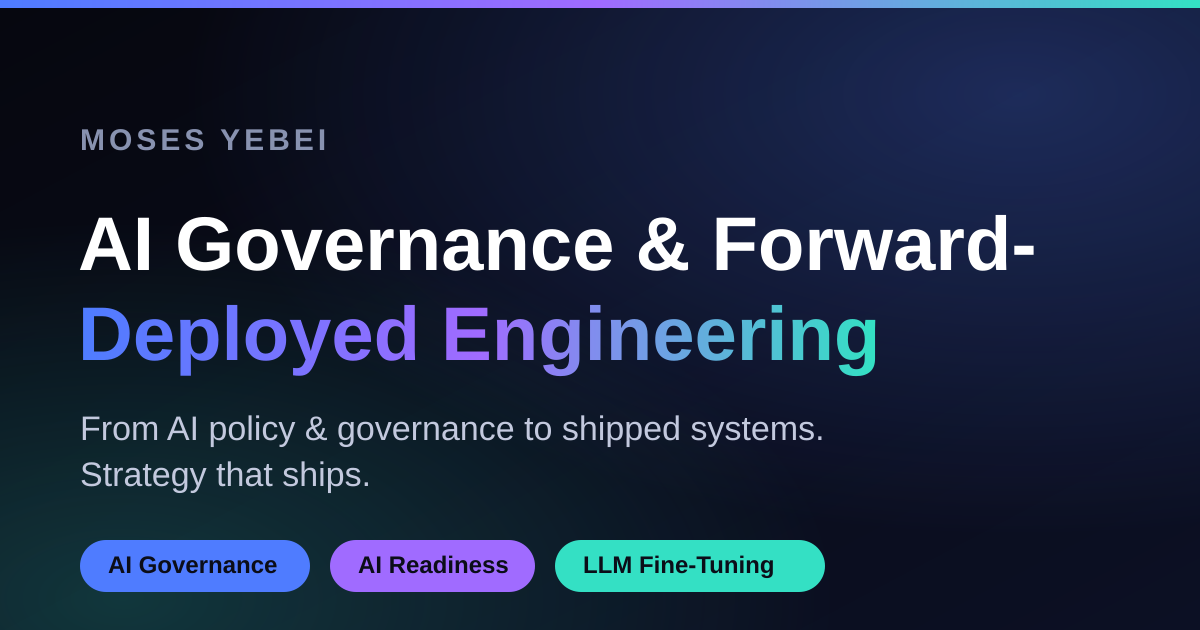
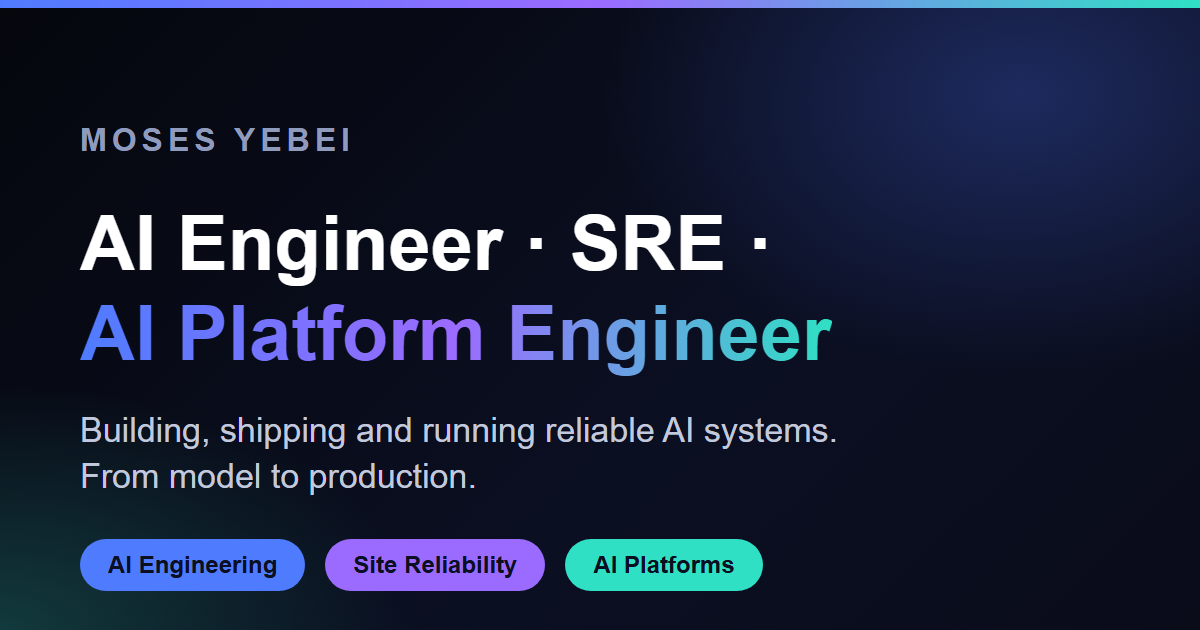
Reposition as AI engineer, SRE and AI platform engineer
Replace the forward-deployed framing in the link preview image, page
metadata and structured data, and rewrite the hero to say plainly what
Glossa is instead of the architecture-textbook line.

diff --git a/index.html b/index.html
@@ -12,22 +12,22 @@
 <head>
     <meta charset="UTF-8">
     <meta name="viewport" content="width=device-width, initial-scale=1.0">
-    <title>Moses Yebei | Forward-Deployed AI Engineer & AI Governance Consultant</title>
+    <title>Moses Yebei | AI Engineer, SRE &amp; AI Platform Engineer</title>
     <meta name="author" content="Moses Yebei">
-    <meta name="description" content="Forward-deployed AI engineer and AI governance consultant. I help organizations move from AI strategy to shipped systems - AI policy & governance, EU AI Act readiness, data governance, RAG & GraphRAG agents, and LLM fine-tuning.">
-    <meta name="keywords" content="forward-deployed AI engineer, AI governance consultant, EU AI Act compliance, AI readiness assessment, RAG pipeline consultant, GraphRAG, LangGraph agent developer, LLM fine-tuning consultant, data governance">
+    <meta name="description" content="AI engineer, SRE and AI platform engineer. I build, ship and run reliable AI systems - LLM agents, RAG &amp; GraphRAG, knowledge graphs, model fine-tuning, and the platforms and infrastructure they run on.">
+    <meta name="keywords" content="AI engineer, site reliability engineer, SRE, AI platform engineer, MLOps, AI governance consultant, EU AI Act compliance, AI readiness assessment, RAG pipeline consultant, GraphRAG, LangGraph agent developer, LLM fine-tuning consultant, data governance">
 
     <!-- Open Graph / Social -->
     <meta property="og:type" content="website">
     <meta property="og:url" content="https://moses-y.github.io/">
-    <meta property="og:title" content="Moses Yebei | Forward-Deployed AI Engineer & AI Governance Consultant">
-    <meta property="og:description" content="From AI policy & governance to forward-deployed delivery and model fine-tuning - one advisor across the full lifecycle. Strategy that ships.">
+    <meta property="og:title" content="Moses Yebei | AI Engineer, SRE &amp; AI Platform Engineer">
+    <meta property="og:description" content="Building, shipping and running reliable AI systems - from model to production.">
     <meta property="og:image" content="https://moses-y.github.io/og-image.png">
 
     <!-- Twitter Card -->
     <meta name="twitter:card" content="summary_large_image">
-    <meta name="twitter:title" content="Moses Yebei | Forward-Deployed AI Engineer & AI Governance Consultant">
-    <meta name="twitter:description" content="From AI policy & governance to forward-deployed delivery and model fine-tuning - one advisor across the full lifecycle. Strategy that ships.">
+    <meta name="twitter:title" content="Moses Yebei | AI Engineer, SRE &amp; AI Platform Engineer">
+    <meta name="twitter:description" content="Building, shipping and running reliable AI systems - from model to production.">
     <meta name="twitter:image" content="https://moses-y.github.io/og-image.png">
 
     <!-- Canonical -->
@@ -43,14 +43,14 @@
           "@id": "https://moses-y.github.io/#person",
           "name": "Moses Yebei",
           "url": "https://moses-y.github.io/",
-          "jobTitle": "Forward-Deployed AI Engineer & AI Governance Consultant",
-          "description": "Independent consultant across AI policy & governance, data governance, AI readiness, forward-deployed engineering, and ML training & fine-tuning.",
+          "jobTitle": "AI Engineer, SRE & AI Platform Engineer",
+          "description": "Independent consultant across AI policy & governance, data governance, AI readiness, AI platform engineering, and ML training & fine-tuning.",
           "knowsAbout": [
             "AI Governance",
             "AI Policy",
             "Data Governance",
             "AI Readiness",
-            "Forward-Deployed Engineering",
+            "AI Platform Engineering",
             "Machine Learning Fine-Tuning",
             "LLM Agents",
             "Knowledge Graphs",
@@ -67,13 +67,13 @@
           "name": "Moses Yebei - AI Advisory & Delivery",
           "url": "https://moses-y.github.io/",
           "founder": { "@id": "https://moses-y.github.io/#person" },
-          "description": "AI governance, readiness, and forward-deployed engineering - from strategy to shipped systems, including LLM agents, knowledge graphs, RAG, and model fine-tuning.",
+          "description": "AI governance, readiness, and AI platform engineering - from strategy to shipped systems, including LLM agents, knowledge graphs, RAG, and model fine-tuning.",
           "areaServed": "Worldwide",
           "serviceType": [
             "AI Governance Consulting",
             "Data Governance Consulting",
             "AI Readiness Assessment",
-            "Forward-Deployed Engineering",
+            "AI Platform Engineering",
             "LLM Fine-Tuning"
           ]
         }
@@ -188,20 +188,15 @@
                      unexplained. The count lives in the lead because that is
                      the sentence making a claim about scale. -->
                 <h1>
-                    Open source is the only <span class="gradient-text">architecture textbook</span>
-                    written by people who had to ship it.
+                    I build and run <span class="gradient-text">AI systems in production.</span>
                 </h1>
-                <p class="tagline">
-                    Built, not described - <span class="typing-text" id="typing-text"></span><span class="typing-cursor"></span>
-                </p>
                 <p class="bio">
-                    <strong>Glossa</strong> reads <span id="hero-repos">1,440</span> chapters of it
-                    and tells you how each one works. <span id="hero-scripts">56</span> scripts
-                    resolve a repository's module graph, dependency closure and hygiene surface;
-                    a model then writes the article from those facts and nothing else - prose, never
-                    a number, so every figure traces back to a check that ran.
-                    <span id="hero-forked">1,418</span> of them are forks: I built Glossa to learn
-                    from them, not to claim them. It runs every two hours.
+                    To learn how good software is put together, I built <strong>Glossa</strong>: a
+                    knowledge graph of <span id="hero-repos">1,440</span> open-source repositories.
+                    It maps how each one is structured, what it depends on and how healthy it is.
+                    Then a model writes a plain-English explanation of each repo from those checked
+                    facts only, so every number traces back to a real analysis. It refreshes every
+                    two hours.
                 </p>
                 <div class="hero-buttons">
                     <a href="/knowledge-graph.html" class="btn btn-primary">

diff --git a/assets/partials/index/00-head.html b/assets/partials/index/00-head.html
@@ -6,22 +6,22 @@
 <head>
     <meta charset="UTF-8">
     <meta name="viewport" content="width=device-width, initial-scale=1.0">
-    <title>Moses Yebei | Forward-Deployed AI Engineer & AI Governance Consultant</title>
+    <title>Moses Yebei | AI Engineer, SRE &amp; AI Platform Engineer</title>
     <meta name="author" content="Moses Yebei">
-    <meta name="description" content="Forward-deployed AI engineer and AI governance consultant. I help organizations move from AI strategy to shipped systems - AI policy & governance, EU AI Act readiness, data governance, RAG & GraphRAG agents, and LLM fine-tuning.">
-    <meta name="keywords" content="forward-deployed AI engineer, AI governance consultant, EU AI Act compliance, AI readiness assessment, RAG pipeline consultant, GraphRAG, LangGraph agent developer, LLM fine-tuning consultant, data governance">
+    <meta name="description" content="AI engineer, SRE and AI platform engineer. I build, ship and run reliable AI systems - LLM agents, RAG &amp; GraphRAG, knowledge graphs, model fine-tuning, and the platforms and infrastructure they run on.">
+    <meta name="keywords" content="AI engineer, site reliability engineer, SRE, AI platform engineer, MLOps, AI governance consultant, EU AI Act compliance, AI readiness assessment, RAG pipeline consultant, GraphRAG, LangGraph agent developer, LLM fine-tuning consultant, data governance">
 
     <!-- Open Graph / Social -->
     <meta property="og:type" content="website">
     <meta property="og:url" content="https://moses-y.github.io/">
-    <meta property="og:title" content="Moses Yebei | Forward-Deployed AI Engineer & AI Governance Consultant">
-    <meta property="og:description" content="From AI policy & governance to forward-deployed delivery and model fine-tuning - one advisor across the full lifecycle. Strategy that ships.">
+    <meta property="og:title" content="Moses Yebei | AI Engineer, SRE &amp; AI Platform Engineer">
+    <meta property="og:description" content="Building, shipping and running reliable AI systems - from model to production.">
     <meta property="og:image" content="https://moses-y.github.io/og-image.png">
 
     <!-- Twitter Card -->
     <meta name="twitter:card" content="summary_large_image">
-    <meta name="twitter:title" content="Moses Yebei | Forward-Deployed AI Engineer & AI Governance Consultant">
-    <meta name="twitter:description" content="From AI policy & governance to forward-deployed delivery and model fine-tuning - one advisor across the full lifecycle. Strategy that ships.">
+    <meta name="twitter:title" content="Moses Yebei | AI Engineer, SRE &amp; AI Platform Engineer">
+    <meta name="twitter:description" content="Building, shipping and running reliable AI systems - from model to production.">
     <meta name="twitter:image" content="https://moses-y.github.io/og-image.png">
 
     <!-- Canonical -->
@@ -37,14 +37,14 @@
           "@id": "https://moses-y.github.io/#person",
           "name": "Moses Yebei",
           "url": "https://moses-y.github.io/",
-          "jobTitle": "Forward-Deployed AI Engineer & AI Governance Consultant",
-          "description": "Independent consultant across AI policy & governance, data governance, AI readiness, forward-deployed engineering, and ML training & fine-tuning.",
+          "jobTitle": "AI Engineer, SRE & AI Platform Engineer",
+          "description": "Independent consultant across AI policy & governance, data governance, AI readiness, AI platform engineering, and ML training & fine-tuning.",
           "knowsAbout": [
             "AI Governance",
             "AI Policy",
             "Data Governance",
             "AI Readiness",
-            "Forward-Deployed Engineering",
+            "AI Platform Engineering",
             "Machine Learning Fine-Tuning",
             "LLM Agents",
             "Knowledge Graphs",
@@ -61,13 +61,13 @@
           "name": "Moses Yebei - AI Advisory & Delivery",
           "url": "https://moses-y.github.io/",
           "founder": { "@id": "https://moses-y.github.io/#person" },
-          "description": "AI governance, readiness, and forward-deployed engineering - from strategy to shipped systems, including LLM agents, knowledge graphs, RAG, and model fine-tuning.",
+          "description": "AI governance, readiness, and AI platform engineering - from strategy to shipped systems, including LLM agents, knowledge graphs, RAG, and model fine-tuning.",
           "areaServed": "Worldwide",
           "serviceType": [
             "AI Governance Consulting",
             "Data Governance Consulting",
             "AI Readiness Assessment",
-            "Forward-Deployed Engineering",
+            "AI Platform Engineering",
             "LLM Fine-Tuning"
           ]
         }

diff --git a/assets/partials/index/02-hero.html b/assets/partials/index/02-hero.html
@@ -23,20 +23,15 @@
                      unexplained. The count lives in the lead because that is
                      the sentence making a claim about scale. -->
                 <h1>
-                    Open source is the only <span class="gradient-text">architecture textbook</span>
-                    written by people who had to ship it.
+                    I build and run <span class="gradient-text">AI systems in production.</span>
                 </h1>
-                <p class="tagline">
-                    Built, not described - <span class="typing-text" id="typing-text"></span><span class="typing-cursor"></span>
-                </p>
                 <p class="bio">
-                    <strong>Glossa</strong> reads <span id="hero-repos">1,440</span> chapters of it
-                    and tells you how each one works. <span id="hero-scripts">56</span> scripts
-                    resolve a repository's module graph, dependency closure and hygiene surface;
-                    a model then writes the article from those facts and nothing else - prose, never
-                    a number, so every figure traces back to a check that ran.
-                    <span id="hero-forked">1,418</span> of them are forks: I built Glossa to learn
-                    from them, not to claim them. It runs every two hours.
+                    To learn how good software is put together, I built <strong>Glossa</strong>: a
+                    knowledge graph of <span id="hero-repos">1,440</span> open-source repositories.
+                    It maps how each one is structured, what it depends on and how healthy it is.
+                    Then a model writes a plain-English explanation of each repo from those checked
+                    facts only, so every number traces back to a real analysis. It refreshes every
+                    two hours.
                 </p>
                 <div class="hero-buttons">
                     <a href="/knowledge-graph.html" class="btn btn-primary">
